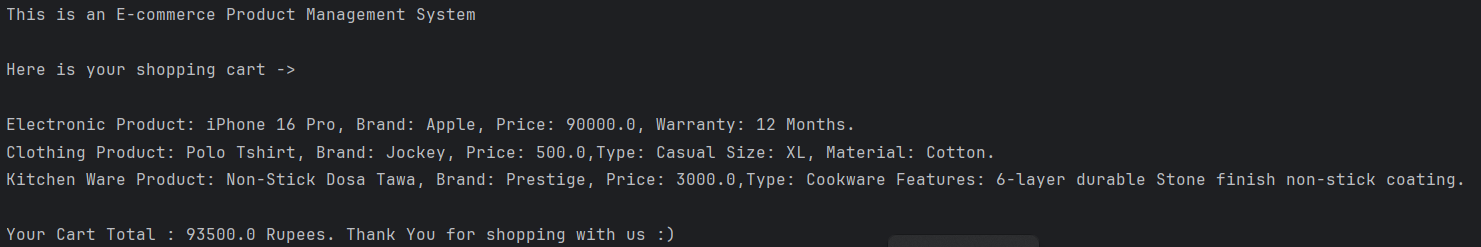
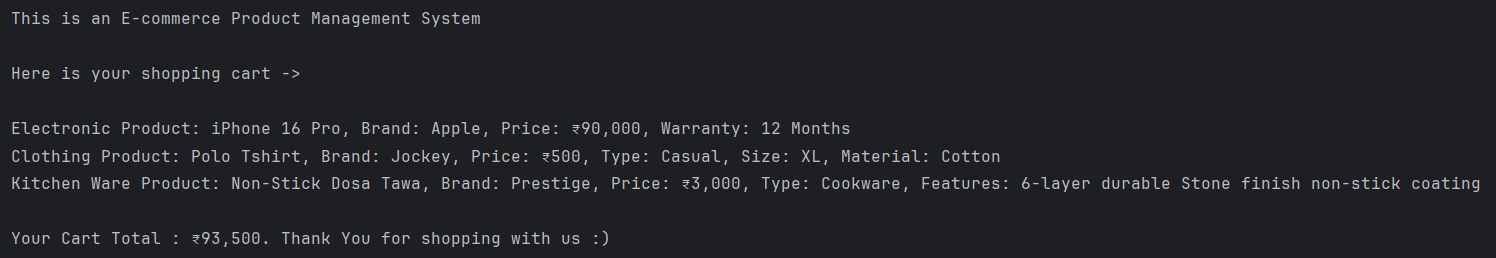
Added Price formatting and ₹ symbol

diff --git a/src/com/ecommerce/ShoppingCart.java b/src/com/ecommerce/ShoppingCart.java
@@ -2,8 +2,10 @@ package com.ecommerce;
 
 import java.util.List;
 import java.util.ArrayList;
+import java.text.NumberFormat;
 
 public class ShoppingCart {
+    NumberFormat formatCartTotal = NumberFormat.getInstance();
     private List<Product> items = new ArrayList<>();
 
     public void addItem(Product product) {
@@ -23,6 +25,6 @@ public class ShoppingCart {
         for (Product item : items) {
             System.out.println(item.toString());
         }
-        System.out.println("\nYour Cart Total : " + calculateCartTotal() + " Rupees. Thank You for shopping with us :)");
+        System.out.println("\nYour Cart Total : ₹" + formatCartTotal.format(calculateCartTotal()) + ". Thank You for shopping with us :)");
     }
 }

diff --git a/src/com/ecommerce/ClothingProduct.java b/src/com/ecommerce/ClothingProduct.java
@@ -31,7 +31,7 @@ public class ClothingProduct extends Product {
 
     @Override
     public String toString() {
-        return "Clothing Product: " + getName() + ", Brand: " + getBrand() + ", Price: " + getPrice() + ",Type: " + getType() + " Size: " + getSize() + ", Material: " + getMaterial() + ".";
+        return "Clothing Product: " + getName() + ", Brand: " + getBrand() + ", Price: ₹" + formatPrice.format(getPrice()) + ", Type: " + getType() + ", Size: " + getSize() + ", Material: " + getMaterial();
     }
 
 }

diff --git a/src/com/ecommerce/KitchenWareProduct.java b/src/com/ecommerce/KitchenWareProduct.java
@@ -25,6 +25,6 @@ public class KitchenWareProduct extends Product {
 
     @Override
     public String toString() {
-        return "Kitchen Ware Product: " + getName() + ", Brand: " + getBrand() + ", Price: " + getPrice() + ",Type: " + getType() + " Features: " + getFeatures() + ".";
+        return "Kitchen Ware Product: " + getName() + ", Brand: " + getBrand() + ", Price: ₹" + formatPrice.format(getPrice()) + ", Type: " + getType() + ", Features: " + getFeatures();
     }
 }

diff --git a/src/com/ecommerce/ElectronicProduct.java b/src/com/ecommerce/ElectronicProduct.java
@@ -20,7 +20,7 @@ public class ElectronicProduct extends Product {//Inheritance
 
     @Override
     public String toString() {
-        return "Electronic Product: " + getName() + ", Brand: " + getBrand() + ", Price: " + getPrice() + ", Warranty: " + getWarranty() + " Months.";
+        return "Electronic Product: " + getName() + ", Brand: " + getBrand() + ", Price: ₹" + formatPrice.format(getPrice()) + ", Warranty: " + getWarranty() + " Months";
     }
 
 

diff --git a/src/com/ecommerce/Product.java b/src/com/ecommerce/Product.java
@@ -1,10 +1,14 @@
 package com.ecommerce;
 
+import java.text.NumberFormat;
+
 public abstract class Product { //Base Class and Provides Abstraction
     private String name;
     private String brand;
     private double price;
     private String description;
+
+    NumberFormat formatPrice = NumberFormat.getInstance();
 
     Product(String name, String brand, double price, String description) {
         this.name = name;
